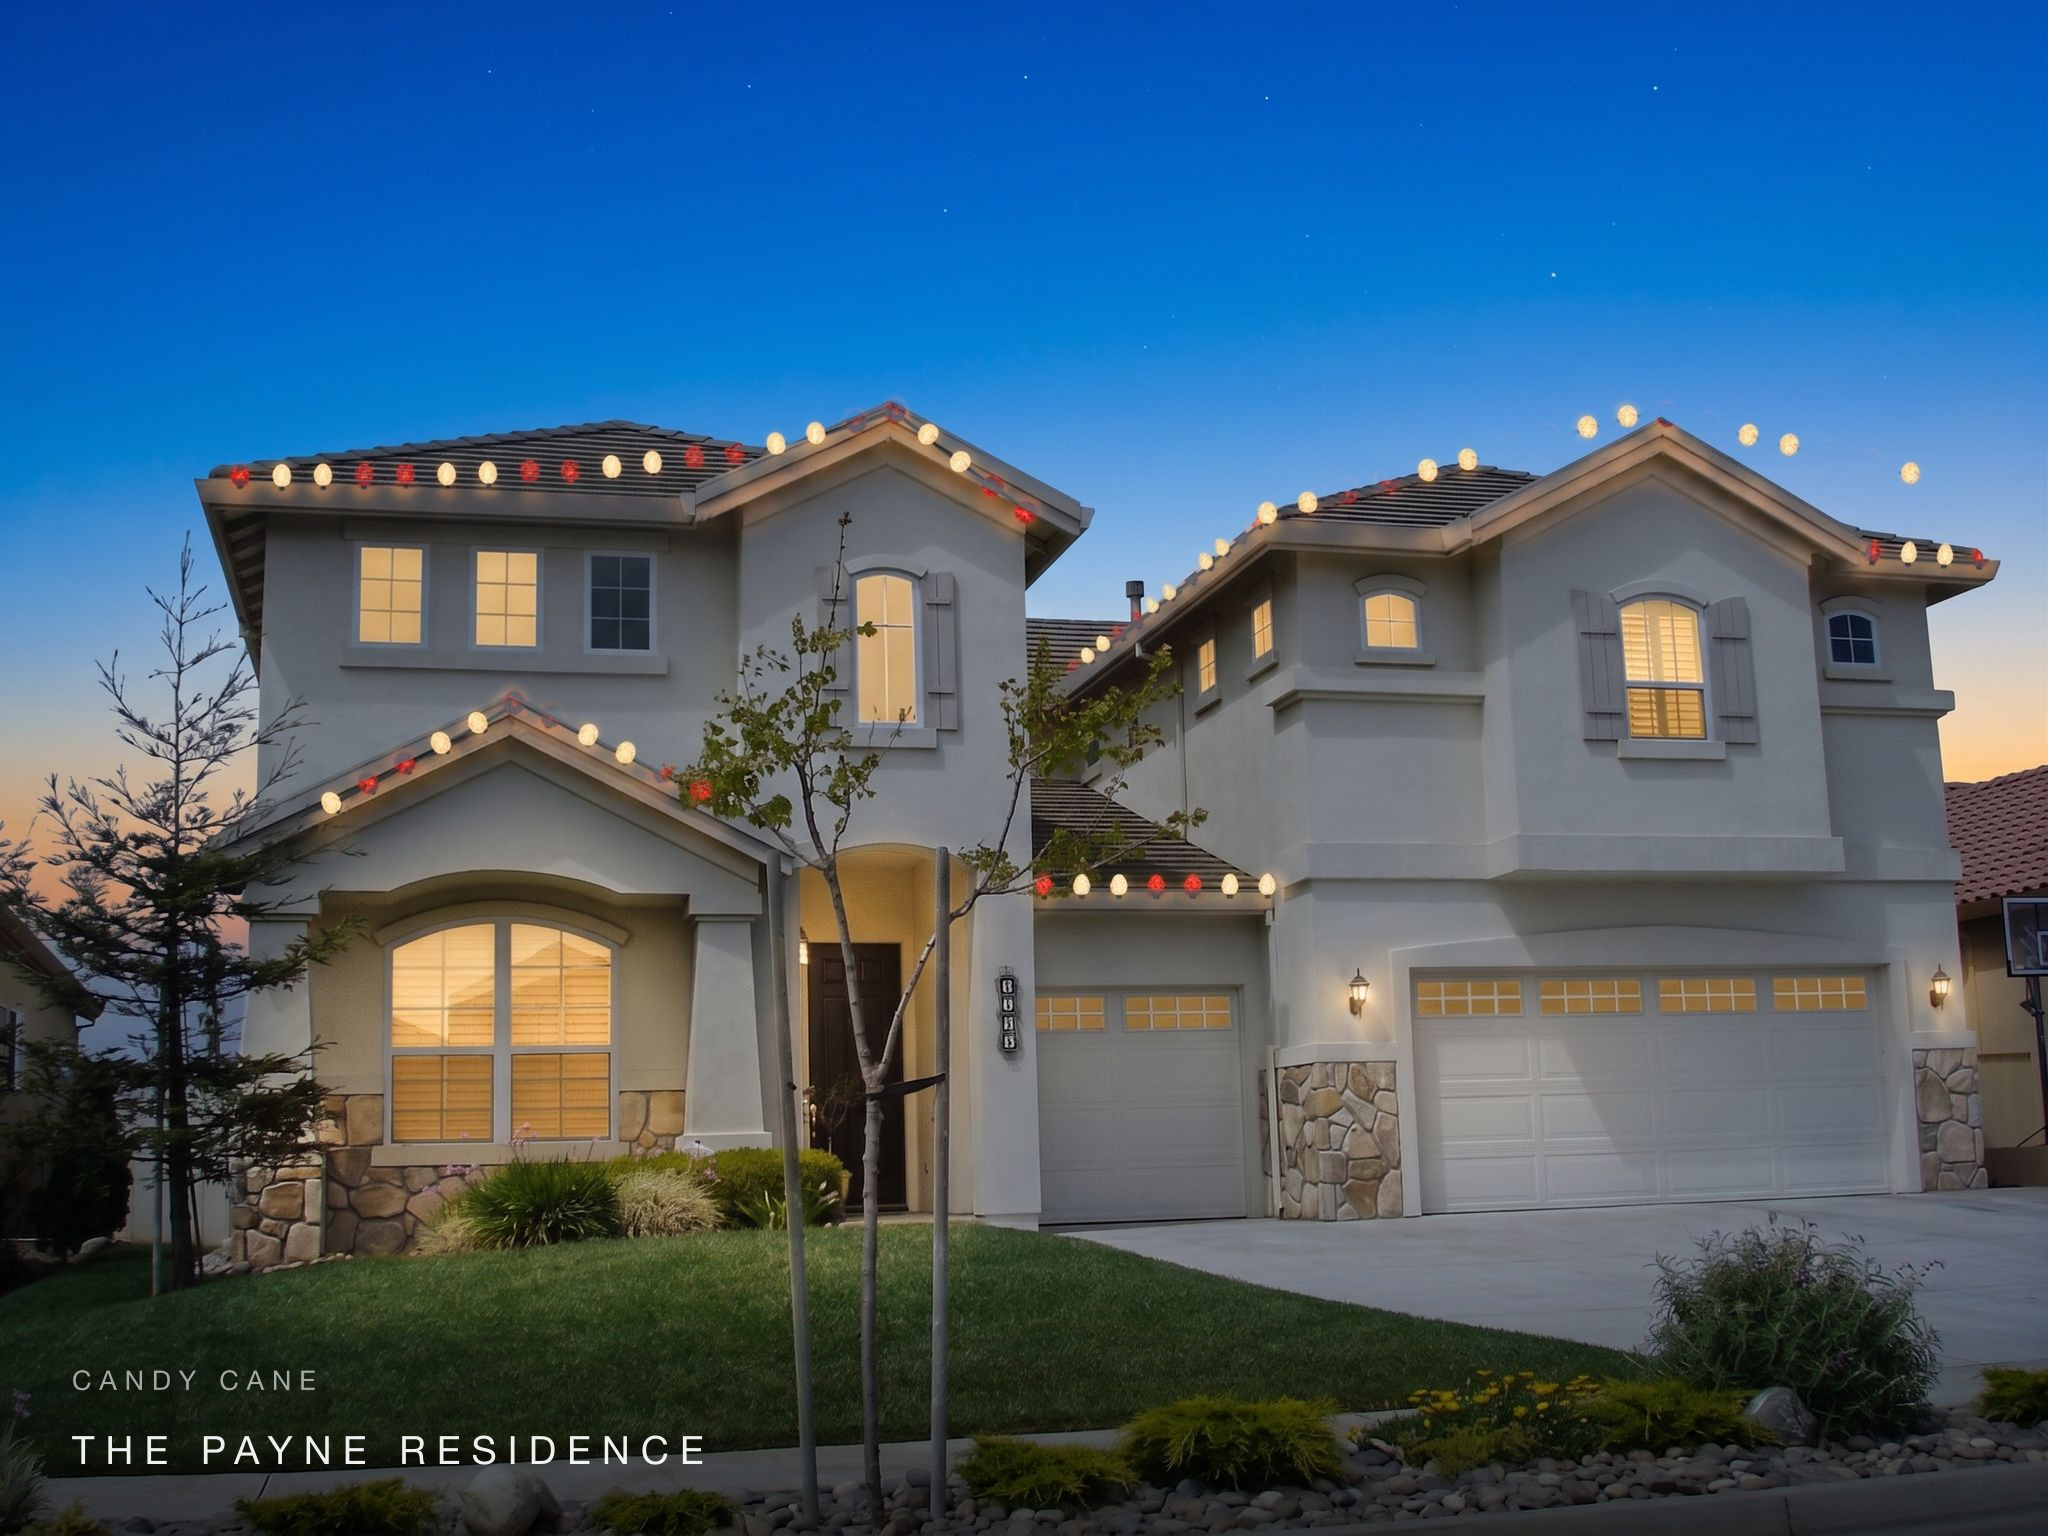
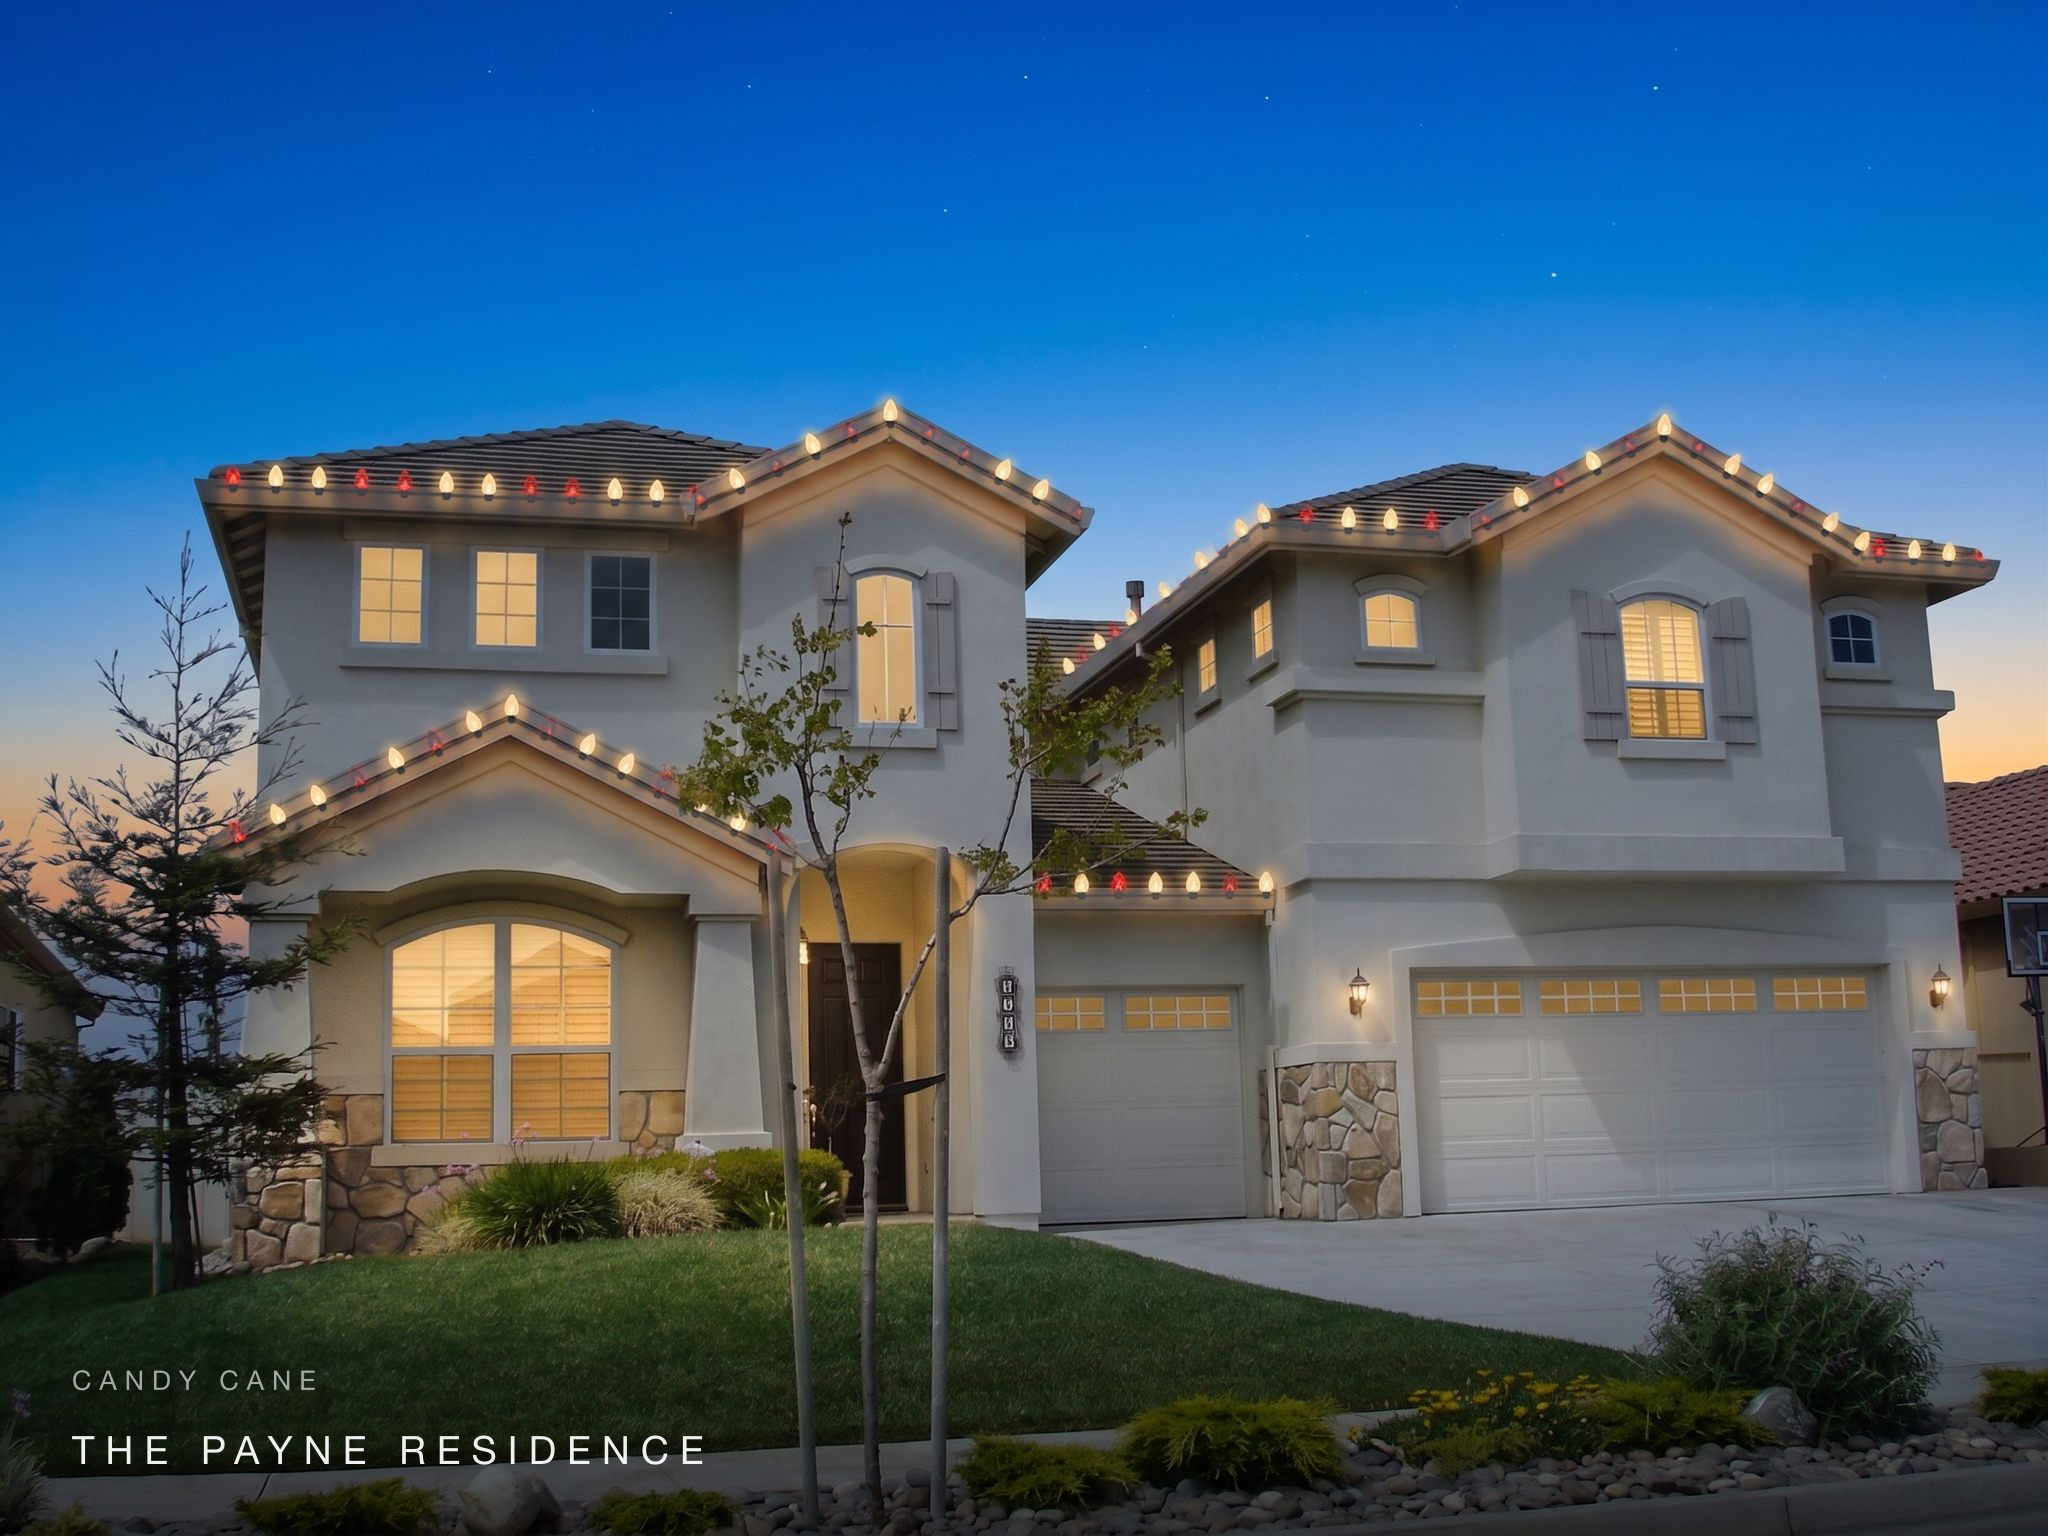
Stop the model copying guide markers into the render
Red bulbs were appearing as flat matte discs sitting up on the roof tiles and in
the sky, unlit and detached from the fascia, while the white bulbs rendered
correctly. Two causes, both mine.

The guide drew fully opaque filled discs in the bulb colour wrapped in soft
halos — visually indistinguishable from a lit bulb, so the model copied the
marker straight through instead of rendering a fixture. Warm-white markers
happened to read as light and were rendered properly; saturated colours did not.
Markers are now hollow rings, which cannot be mistaken for a light, and the
prompt states explicitly that rings are annotation to be replaced and deleted,
that every bulb is the same size and brightness whatever its colour, and that
bulbs clip to the fascia board rather than the roof tiles.

The traced roofline also followed the tile edge rather than the fascia, about
0.9% of image height too high, which is where the copied markers landed. The
fixture's roofline is corrected.

Re-rendered candy cane to confirm: bulbs now sit on the fascia with visible
clips, red and white are the same size and shape, and the two-red/two-white
grouping reads correctly. Reds remain dimmer than whites, which is the next thing
to chase.

diff --git a/lib/ai/prompts.ts b/lib/ai/prompts.ts
@@ -108,7 +108,15 @@ export function buildLightPrompt({ design, hasGuide, decorations = [], placement
     : `SMD C9 LED Christmas bulbs: faceted, strawberry-shaped bulbs on a black wire, clipped to the fascia at approximately ${design.spacingInches}-inch centres. Each bulb is a distinct, individually visible point of light with a small warm halo, a faint glow on the fascia board directly behind it, and no light spill further down the wall. The spacing must read as evenly measured, not random.`;
 
   const guide = hasGuide
-    ? `\nThe SECOND image is a placement guide: a transparent overlay marking the exact position and colour of every light. Place a real light at each marked point, matching the marked colour precisely. The guide's dots are markers, not artwork — render photorealistic fixtures at those coordinates and do not copy the flat dots themselves. Place lights ONLY where the guide marks them.`
+    ? `\nThe SECOND image is a placement guide. Each small hollow RING marks one light: the ring's centre is where that light goes, and the ring's colour is the colour that light must be.
+
+The rings are schematic annotation, NOT artwork. Never draw a ring, circle, outline or flat dot in your output. Replace each ring with a real, lit, photorealistic ${isOmni ? 'fixture' : 'C9 bulb'} and delete the ring itself.
+
+Every light is the same physical size and the same brightness as every other light, whatever its colour. A red bulb is exactly as large and as luminous as a white one — it glows red, it is not a small dark red dot. Coloured bulbs must cast the same halo and the same spill onto the surface behind them as the white bulbs do.
+
+${isOmni ? 'Mount each fixture into the eave/soffit above the marked point.' : 'Clip each bulb to the fascia board — the flat vertical trim just below the roof edge — so the string runs along the fascia, not up on the roof tiles. If a ring sits slightly high, move the bulb down onto the fascia.'}
+
+Place lights ONLY where the guide marks them, one per ring.`
     : `\nInstall along the front-facing roofline only — the fascia and eaves that face the camera. Do not run lights along roof edges that turn away from the camera, and do not outline windows, doors, or the garage.`;
 
   const decor = decorations.length

diff --git a/lib/image/guide.ts b/lib/image/guide.ts
@@ -128,19 +128,29 @@ export async function renderGuide(opts: GuideOptions): Promise<Buffer> {
     })
     .join('');
 
+  /*
+   * Markers are hollow rings, never filled discs.
+   *
+   * The first version drew an opaque coloured disc wrapped in soft halos, which
+   * looks exactly like a lit bulb — so the model copied the marker straight into
+   * the output instead of rendering a fixture. Saturated colours were worst: reds
+   * came through as flat matte dots sitting on the roof tiles with no glow, while
+   * the warm-white ones (which read as light) were rendered properly and moved
+   * down onto the fascia. A ring cannot be mistaken for a light, so it is used as
+   * a position-and-colour reference and nothing else.
+   */
   const marks = bulbs
     .map(({ x, y, hex }) => {
       const cx = x.toFixed(1);
       const cy = y.toFixed(1);
-      // Omni fixtures throw light down the wall; show the intended cone direction.
+      // Omni fixtures wash downward; a short tick shows the intended direction.
       const wash = isOmni
-        ? `<rect x="${(x - core * 1.6).toFixed(1)}" y="${cy}" width="${(core * 3.2).toFixed(1)}" height="${(core * 14).toFixed(1)}" fill="${hex}" opacity="0.13"/>`
+        ? `<line x1="${cx}" y1="${(y + core).toFixed(1)}" x2="${cx}" y2="${(y + core * 7).toFixed(1)}" stroke="${hex}" stroke-width="1" opacity="0.4"/>`
         : '';
       return (
         wash +
-        `<circle cx="${cx}" cy="${cy}" r="${core * 3}" fill="${hex}" opacity="0.14"/>` +
-        `<circle cx="${cx}" cy="${cy}" r="${core * 1.7}" fill="${hex}" opacity="0.32"/>` +
-        `<circle cx="${cx}" cy="${cy}" r="${core}" fill="${hex}" opacity="1"/>`
+        `<circle cx="${cx}" cy="${cy}" r="${core * 1.5}" fill="none" stroke="${hex}" stroke-width="1.6" opacity="0.95"/>` +
+        `<circle cx="${cx}" cy="${cy}" r="0.9" fill="${hex}" opacity="0.9"/>`
       );
     })
     .join('');
